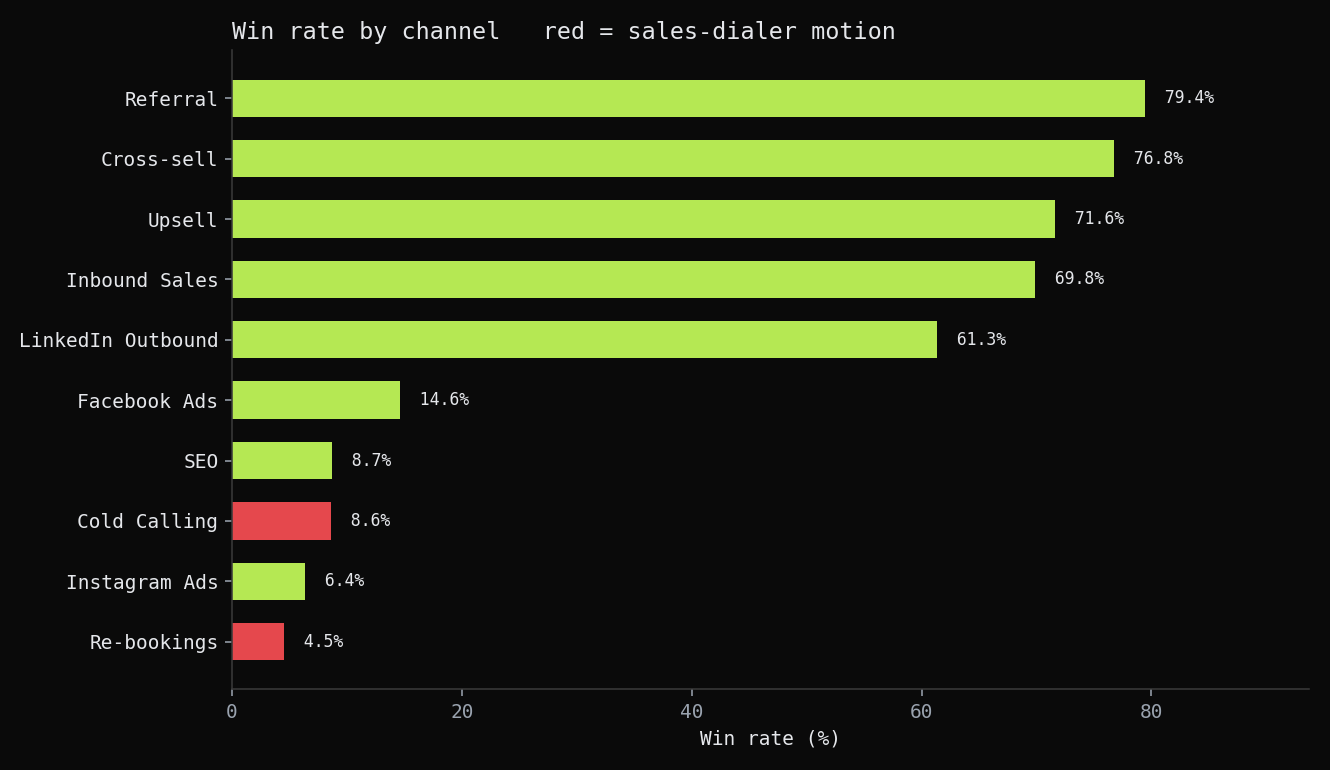
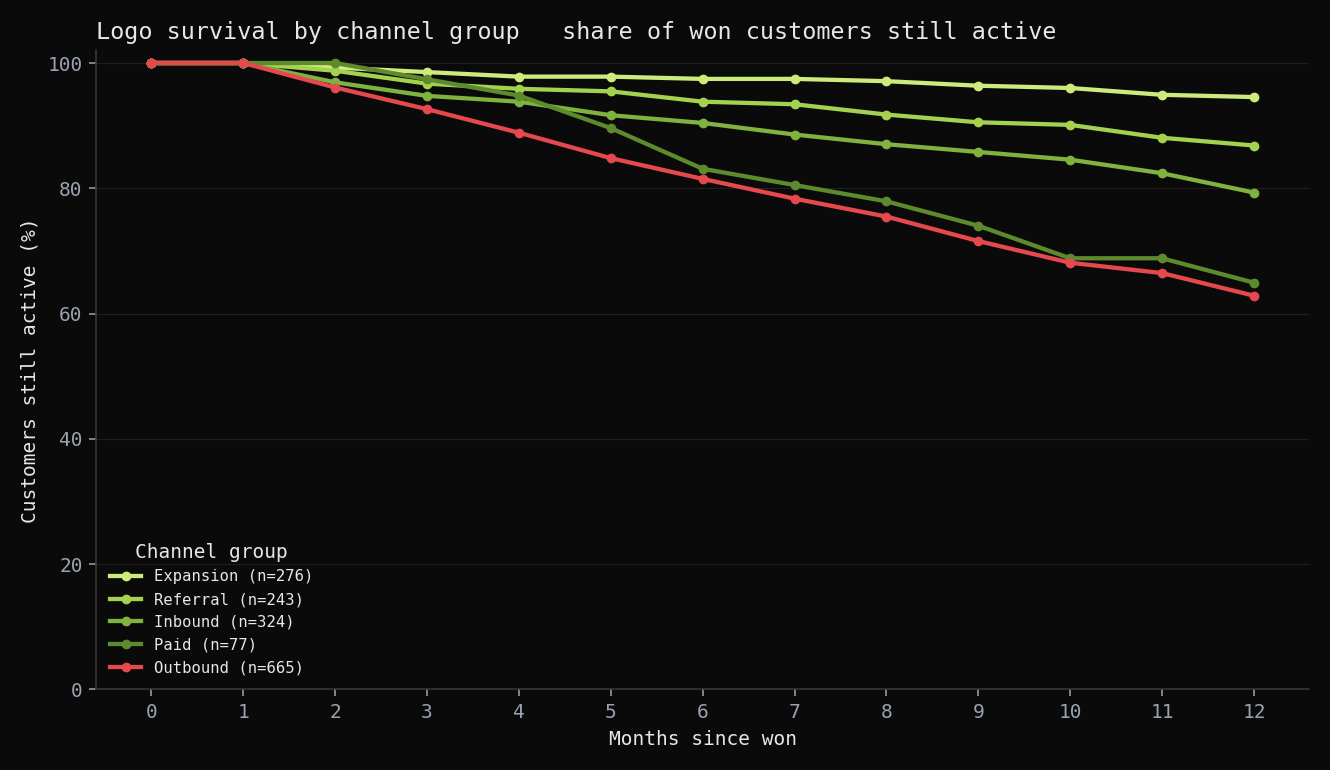
Publish Cold-Call Funnel case study + change both homepage covers
Replaces the coming-soon stub with the full analyst-process article
(funnel leak, the 6-20 employee-band lever, the lead-score deliverable;
synthetic disclosed once; numbers trace to verify_numbers.py). Five
dark site-themed charts. Homepage covers changed to non-bar visuals:
cold-call -> funnel waterfall, channel-performance -> retention
survival line chart.

diff --git a/_projects/01-cold-call-funnel.md b/_projects/01-cold-call-funnel.md
@@ -1,13 +1,129 @@
 ---
 layout: project
 title: Cold-Call Funnel Analysis
-tagline: "Full-funnel view across a six-figure population of SMBs: which segments call, which convert, which churn"
-tools: [Python, SQL, Power BI, Pipedrive, Adversus]
-outcome_headline: "Joined call-system data with CRM outcomes and pulled out the segments worth doubling down on"
-outcome_detail: "Funnel by segment, rep-performance view, and a 'stop calling' list. All in one Power BI dashboard."
+tagline: "102,007 dials, 362 wins. The leak was not the top of the funnel. One firmographic band decided almost the entire outcome. Synthetic data, real method."
+tools: [Python, SQL, Power BI]
+outcome_headline: "Companies with 6 to 20 employees closed held meetings at 37.5%. Everyone else closed at 3.0%, a 12.7x gap on the single biggest lever in the dataset"
+outcome_detail: "Only 12.8% of held meetings became wins, so the pipeline leaked after the first conversation, not before it. The deliverable is an additive lead score that gates the dial list."
 order: 1
-cover_image: /assets/images/projects/cold-call-funnel.jpg
-coming_soon: true
+cover_image: /assets/images/projects/cold-call-funnel-cover.png
+github_url: https://github.com/rasmuskampmann1998/rasmus-skills/tree/main/writing-case-studies/examples/full-funnel-analysis
 ---
 
-*Article coming soon.*
+Built in SQL, Python, and Power BI. Validated in DuckDB. Reproducible from a seeded synthetic generator.
+
+An outbound team ran 102,007 dials through an auto-dialer and judged the operation on call volume. The volume was fine. Underneath it the funnel leaked in one place: only 12.8% of held meetings became wins, and a single firmographic band, companies with 6 to 20 employees, closed at 37.5% while everyone else closed at 3.0%. The decision the analysis served: a sales lead deciding which companies the dialer should call next quarter, who was buying more top-of-funnel volume to fix a problem that was not at the top of the funnel.
+
+The figures are synthetic, generated from a seeded model that reproduces the shape of a real CRM and auto-dialer engagement whose data cannot be published. The method is the point.
+
+Schema, scorecard rule, and Power BI model on [GitHub]({{ page.github_url }}).
+
+## The business question
+
+The sales lead decides which companies go on the dial list. They were judging the operation on calls made and meetings booked, the top of the funnel, and the instinct when results were thin was to dial more.
+
+The question: across the whole funnel, where does it actually leak, who converts once they reach a real conversation, and what rule decides who to dial? The answer had to be a list the lead could act on without a data team in the room: a dial-or-skip rule they could defend to their VP and re-fit themselves each quarter. That constraint is why the deliverable is a scorecard, not a model, and why the analysis had to follow the funnel past the booked meeting, where the leak turned out to be.
+
+## Where the data came from
+
+The original engagement ran on a private export from a CRM and an auto-dialer at a Danish SMB accounting firm: call logs, the meetings they booked, the deals those meetings became. That export can't be published, so this version runs on a seeded synthetic generator that emits nine CSVs with the same schema and shape. Byte-stable: same script, same data every run. Everything below is the real process on that stand-in.
+
+The raw grain mirrors how the systems store it: one row per call attempt, one per booked meeting, one per deal. Three things had to be derived before any funnel could be drawn: which call connected and booked, whether a booked meeting was actually held or cancelled, and the held-to-won outcome joined back to the company's firmographics. The held-versus-cancelled split is the column that turned a "we need more dials" story into a "we leak after the first conversation" story.
+
+## The data model
+
+A star schema, the funnel as three fact grains:
+
+- `fact_calls`: one row per dial (102,007), carrying connect and meeting-booked flags. The top of the funnel.
+- `fact_meetings`: one row per booked meeting, carrying held-or-cancelled status and the days-to-close clock. The middle, where the leak is.
+- `fact_deals`: one row per deal, carrying won/lost and MRR. The bottom.
+
+Seven conformed dimensions hang off those facts: date, company, rep, stage, lost reason, source, and the firmographic attributes on the company. Company is the segment axis, so its firmographics (employee band, industry) are dimension columns, not buried in a deal record. That is what lets every funnel step cut by segment without rewriting a query. Relationships are single-direction; the won and lost date relationships are inactive and activated with `USERELATIONSHIP` only where a timing measure needs them, so a measure can never silently pull the wrong date.
+
+## Cleaning and validation
+
+Every finding here rests on attributing each held meeting to one company segment, and on the held-versus-cancelled split being right. Three things had to be true before any chart was drawn, and a volume report skips all three.
+
+A held meeting counted as cancelled, or the reverse, would move the entire leak. The meeting status was reconciled against the deal outcome so a "held" meeting with no corresponding deal record could not silently inflate the held count, and the cancellation share (43.0% of all losses) was checked against the loss-reason mix rather than assumed.
+
+A deal with more than one meeting must count once, not once per meeting, or a chatty segment looks like it converts more. The meeting and deal streams stay at their own grain and roll up on the deal key before they join, so revenue and win counts are counted once per deal.
+
+The last gate catches the silent error: every analysis figure in this write-up and the dashboard is recomputed from the CSVs by one verification script, and the Power BI measures were checked by definition-equivalence against that same script. The headline measures reproduce it exactly: meeting-to-won 12.8%, the 6-20 band 37.5%, MRR won $278,449. The scorecard band coverage (its share of the universe and of historic wins) comes from applying the documented scoring rule to those same tables, not from the analysis script. If a number moves, the check fails before the chart ships.
+
+## The approach
+
+The unit of analysis is the held meeting, not the call. A call that never reaches a conversation tells you nothing about who converts; a held meeting does. Every held meeting is cut by the company it belonged to, and the funnel is read one step at a time so the leak has nowhere to hide.
+
+Three cuts decide the answer. The funnel waterfall locates *where* it leaks. The segment cuts (employee band, industry) find *who* leaks and who does not. The loss mix explains *why* the rest is lost. Each cut is a single chart with a single finding, and the cuts that show no signal are reported as no signal rather than dressed up, because a flat result is itself a finding.
+
+## The findings
+
+**The funnel does not leak at the top. It leaks after the first conversation.**
+
+![Full funnel, dials to closed deal]({{ '/assets/images/projects/cold-call-funnel-waterfall.png' | relative_url }})
+*102,007 calls, 31,421 connected, 5,755 meetings booked, 2,829 held, 362 won. Each step loses volume as expected until the last one: only 12.8% of held meetings become wins. The drop the team could not see was the one after the meeting, not before it.*
+
+The waterfall is the case for not buying more dials. Connect-to-booked behaves like a normal outbound funnel. The collapse is meeting-to-won: 2,829 real conversations produced 362 deals. Adding top-of-funnel volume scales the 12.8%, it does not fix it. The lever is the conversation-to-deal step, and the next chart shows the lever has a single owner.
+
+**One employee band closes at 37.5%. Everyone else closes at 3.0%.**
+
+![Meeting to won by employee band]({{ '/assets/images/projects/cold-call-funnel-employee-band.png' | relative_url }})
+*Held-to-won by company size. The 6 to 20 band closes at 37.5% on 805 held meetings. Every other band sits between 1.4% and 6.0%. There is no gradient here, there is one spike.*
+
+This is the single biggest result in the dataset. The win rate is not distributed across company sizes, it is concentrated in one band. The 6-20 segment closes at 37.5%; everything else combined closes at 3.0%, a 12.7x gap. A dial list that ignores employee band is spending most of its calls outside the only segment that converts, and the blended 12.8% baseline hides that completely.
+
+**Industry is the second filter, and three industries are a hard zero.**
+
+![Meeting to won by industry, anti-ICP in red]({{ '/assets/images/projects/cold-call-funnel-industry.png' | relative_url }})
+*Held-to-won by industry. Consulting, Transport, and Marketing close at roughly zero: two wins on 502 held meetings combined. Every qualifying industry sits between 14.7% and 16.6%.*
+
+Industry does not rank prospects on a curve; it disqualifies three of them. Consulting (0.0%), Transport (0.4%), and Marketing (1.1%) are not weak segments, they are anti-ICP: 502 held meetings, two wins. The qualifying industries are flat at 15%, which means industry is a blacklist, not a score. Two fields, employee band and an industry blacklist, do almost all the work, which is exactly what makes the deliverable a simple rule rather than a model.
+
+**The accounting system is a non-signal, and saying so is the finding.**
+
+The same cut by accounting software was flat: every system between 12.1% and 13.4%, sitting on the 12.8% baseline. It would have been easy to present a "best-converting accounting system" chart; the honest result is that there is no signal there, so it is not a chart. Reporting the null keeps the two real signals credible.
+
+**Most losses never reach a real conversation.**
+
+![Lost-reason Pareto]({{ '/assets/images/projects/cold-call-funnel-loss.png' | relative_url }})
+*Loss mix. 43.0% of all losses are meeting cancellations, and No-response is 57.3% of the categorised reasons. Most lost deals were lost before a salesperson ever spoke to them.*
+
+The leak has a second mechanism. Of 4,329 losses, 1,862 (43.0%) are meeting cancellations, deals that died between booking and the conversation. That is a confirmation-cadence problem, not a sales-skill problem, and it is fixable without touching the dial list. It also explains why top-of-funnel volume felt unproductive: a large share of booked meetings never became conversations at all.
+
+**Speed is not the constraint.**
+
+![Meeting to won cycle]({{ '/assets/images/projects/cold-call-funnel-cycle.png' | relative_url }})
+*Days from held meeting to won. Median 11 days, p90 24 days. Deals that close, close fast.*
+
+The cycle is short and tight: median 11 days, 90th percentile 24. Deals that close do not drag. Closing speed is not where to spend effort; the prior charts already named where to spend it. Reporting the cycle confirms there is no hidden slow-deal problem masking the real story.
+
+## The deliverable
+
+The findings collapse into one additive lead score that gates the dial list. Each company earns points on the two fields that carry the signal, employee band and industry, and the total decides dial or skip.
+
+- Employee band 6-20: the heavy positive weight. It is the 37.5%-vs-3.0% lever.
+- Anti-ICP industry (Consulting, Transport, Marketing): a hard negative that zeroes the score regardless of size.
+- Everything else: small or zero weight, because the data showed no other field carries signal.
+
+There is no "maybe" tier. The data has one decisive split, not a gradient, so the scorecard has two outcomes, not three. On the historic data the Dial band is 22.7% of the universe and covers 83% of the wins: skip three-quarters of the list, keep most of the revenue. The scorecard is built so a sales lead can re-fit the weights each quarter from the same tables and defend every point of the score to a VP from the underlying segment lift, not a model coefficient. Alongside it: a meeting-confirmation cadence to attack the 43% cancellation loss, and an industry blacklist that removes the three anti-ICP industries from active dialing.
+
+## What I'd do differently
+
+The first pass read this as a top-of-funnel problem because that is what the team measured and what the call volume invited. The funnel waterfall is what reframed it: the leak was the meeting-to-won step the whole time, and no amount of connect-rate optimisation touches it. I should have drawn the full funnel before looking at any single step, because the step everyone watches is rarely the step that leaks.
+
+The anti-ICP industries are a hard zero on this synthetic population, which is cleaner than reality. A real engagement would show a low but non-zero rate there, and the honest call would be to set the blacklist threshold from a confidence interval on the real conversion rate, not from an exact zero. The method is the same; the threshold would need a real sample behind it.
+
+## Tools, by step
+
+The same tools most analysts list, used at a specific step for a specific reason:
+
+| Step | Tool | What it did here |
+|---|---|---|
+| Sourcing | CRM + auto-dialer export (synthetic stand-in via a seeded Python generator) | Call logs, meetings, and deals at system grain; no private data leaves the original engagement |
+| Modelling | SQL (Postgres-style DDL) | The star schema: three funnel fact grains, seven conformed dimensions, company as the segment axis |
+| Cleaning and validation | DuckDB | Held-vs-cancelled reconciliation, grain dedupe on the deal key, query validation before any finding |
+| Analysis | Python (pandas, numpy) | The funnel and segment cuts, the loss mix, and a verification script that recomputes every quoted number |
+| Dashboard | Power BI (PBIP/TMDL, validated headless with pbi-cli) | The funnel and the scorecard as something the sales lead reruns each quarter |
+| Reproduction | One seeded script | The whole pipeline regenerates byte-identically from source with no real client data |
+
+Every chart in this case study is a bar, a line, or a histogram, one comparison grammar, nothing that needs a second encoding to decode.